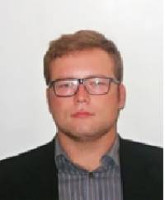
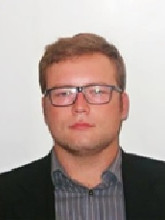
vedouci mo a fotky

diff --git a/_includes/footer.html b/_includes/footer.html
@@ -150,8 +150,8 @@
         <ul class="c-contact-bar-items u-stacked-medium-down">
           <li class="c-contact-bar__item u-stacked-medium-down">
             <div class="c-contact-bar__section"> Média </div>
-            <div class="c-contact-bar__description"> Tomáš Svoboda,
-              <a href="mailto:tomas.svoboda@pirati.cz">tomas.svoboda@pirati.cz</a>
+            <div class="c-contact-bar__description"> Antonín Štěpán,
+              <a href="mailto:tomas.svoboda@pirati.cz">antonin.stepan@pirati.cz</a>
             </div>
           </li>
           <li class="c-contact-bar__item u-stacked-medium-down">

diff --git a/kontakt/index.html b/kontakt/index.html
@@ -127,7 +127,7 @@ title: Kontaktní informace
           <div class="c-BasicPage">
             <div class="c-BasicPage-content">
               <h2>Kontakt pro média</h2>
-                {% assign team = site.people | where_exp:"item","item.uid contains 'tomas.svoboda'" %}
+                {% assign team = site.people | where_exp:"item","item.uid contains 'antonin.stepan'" %}
                 {% include people/list-2col.html param=team %}
             </div>
           </div>

diff --git a/_people/antonin-stepan.md b/_people/antonin-stepan.md
@@ -1,0 +1,21 @@
+---
+uid: antonin.stepan
+name:     Antonín Štěpán   # běžně používáné jméno
+fullname: Antonín Štěpán   # jméno s tituly etc.
+category:                   # kategorie: rp, praha, vary, hradec, jmk, senat
+- vedouci
+position: Vedoucí krajského mediálního odboru
+img: people/antonin-stepan.jpg   # 165 x 220
+description: Vedoucí krajského mediálního odboru           # kratký popis, max 160 znaků
+mail: antonin.stepan@pirati.cz
+mob: 
+profiles:
+  github:                 
+  facebook:
+  twitter:      
+  flickr:
+ordved: 2
+---
+Antonín Štěpán (* 5. března 1988) je členem České pirátské strany od února 2018. Od května 2018 působí jako vedoucí krajského mediálního odboru.
+
+Vystudoval Janáčkovu konzervatoř v Ostravě, hudební obor - bicí nástroje. V současnosti pracuje jako pedagog na základní umělecké škole a je aktivním muzikantem.

diff --git a/_people/tomas-svoboda.md b/_people/tomas-svoboda.md
@@ -4,10 +4,9 @@ name:     Tomáš Svoboda   # běžně používáné jméno
 fullname: Tomáš Svoboda   # jméno s tituly etc.
 category:                   # kategorie: rp, praha, vary, hradec, jmk, senat
 - predsednictvo
-- vedouci
 position: Místopředseda krajského sdružení
 img: people/tomas-svoboda.jpg   # 165 x 220
-description: Vedoucí krajského mediálního odboru, 1. místopředseda olomouckého krajského sdružení           # kratký popis, max 160 znaků
+description: 1. místopředseda olomouckého krajského sdružení           # kratký popis, max 160 znaků
 mail: tomas.svoboda@pirati.cz
 mob: 733 252 652
 profiles:
@@ -16,7 +15,6 @@ profiles:
   twitter:      
   flickr:
 ordpre: 2          
-ordved: 2
 ---
 Tomáš Svoboda je v současné době 1. místopředsedou krajského sdružení Olomouc.
 
